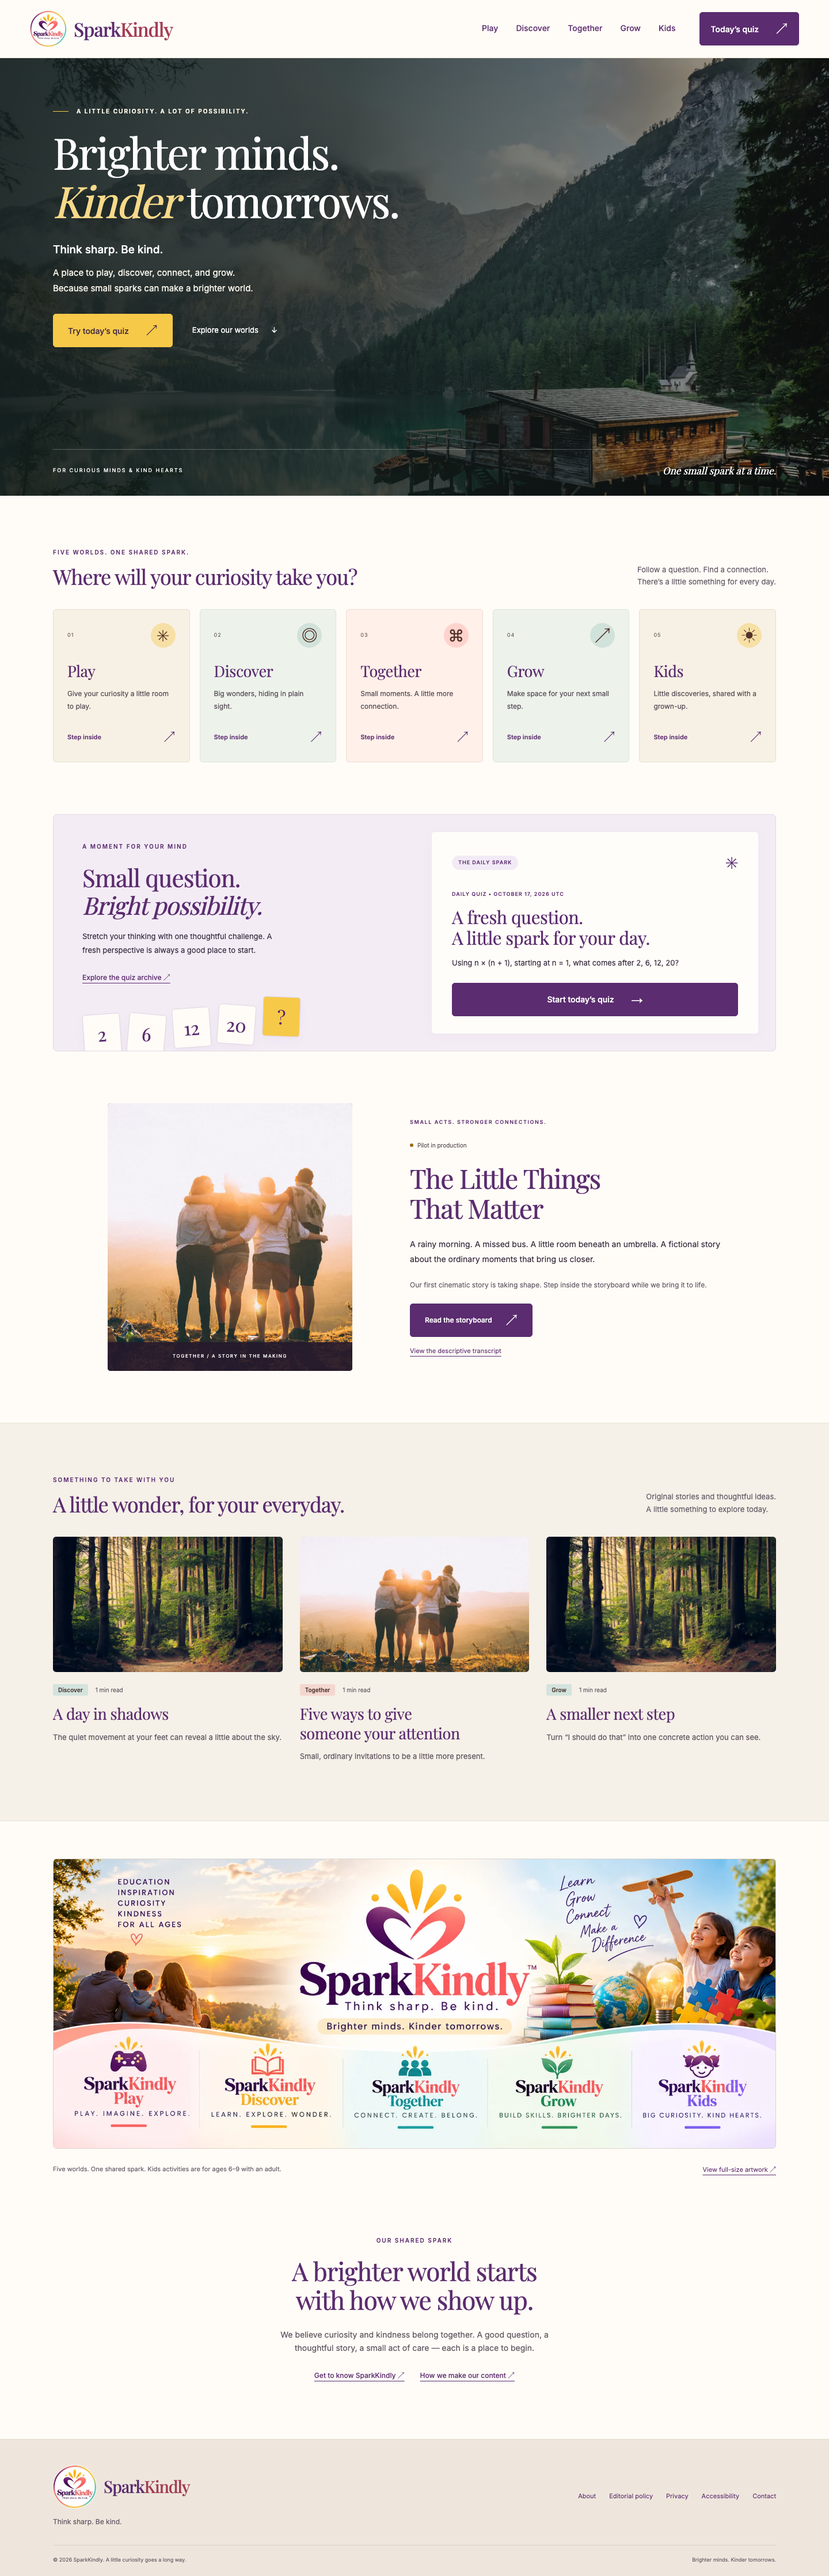
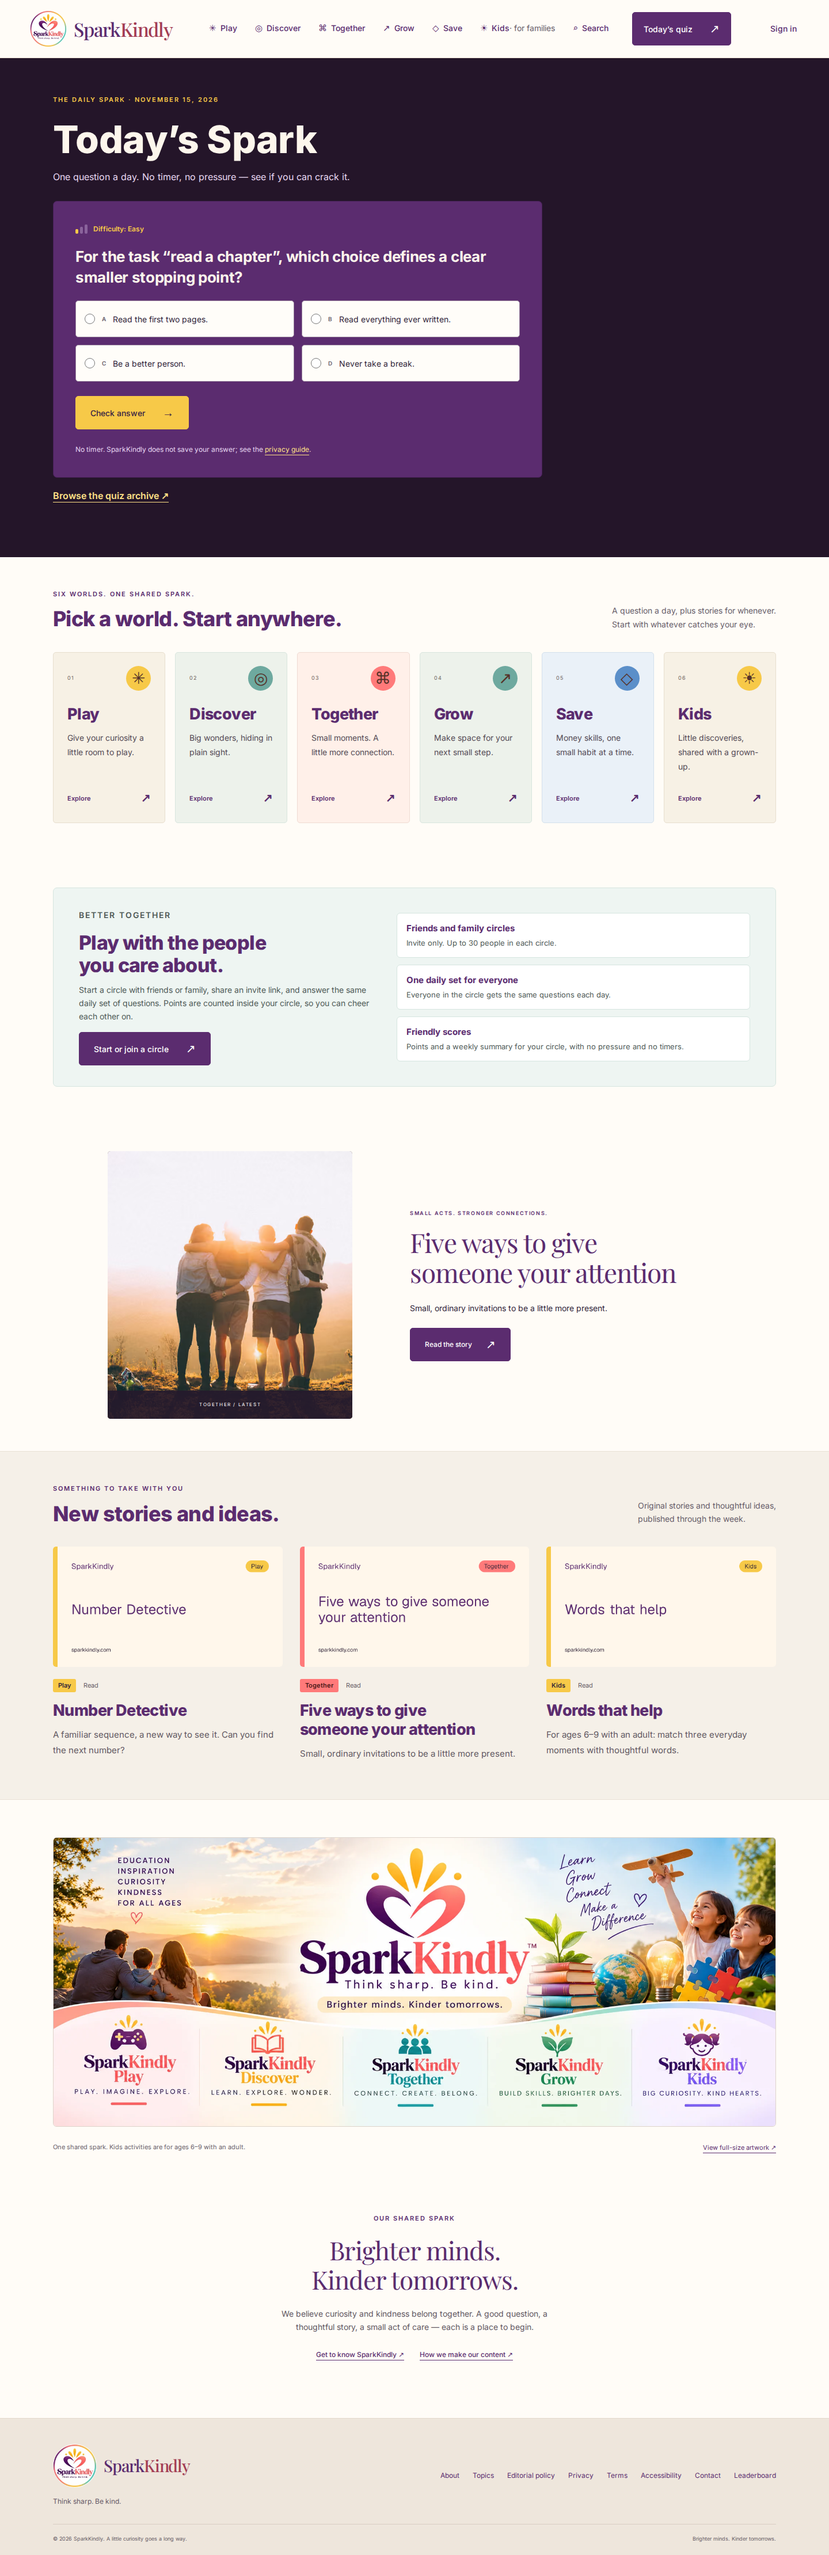
fix: Contrast and dark-scheme corrections from the accessibility runs
Running the a11y and site e2e suites against the teen-UI build found
four real defects, all fixed here: the cream legend colour was scoped
to every quiz form and washed out the report form's legend (now
panel-scoped); ink text on the full-strength sky world header sat at
4.33:1 (the sky header now uses the near-black plum, 5.12:1); in dark
scheme the panel picked up the lightened --plum accent as its
background (the panel pins its deep plum); and the card entrance
animation faded opacity, which blends text colours mid-flight (it now
moves transform only). The site journey test's homepage assertion
follows the new hero: 'Today's Spark' is the H1, the manifesto line
still asserted present in the mission section.

diff --git a/app/globals.css b/app/globals.css
@@ -127,6 +127,7 @@ h1,h2,h3{font-family:var(--sans);font-weight:800;letter-spacing:-.6px}
 .brand-intro .eyebrow{color:#302438}
 .brand-intro h1{color:#241529}
 .brand-intro>p:last-of-type{color:#302438}
+.brand-intro.intro-sky .eyebrow,.brand-intro.intro-sky>p{color:#241529}
 .world-icon{background:var(--gold)}
 .world-sage .world-icon{background:var(--sage)}
 .world-coral .world-icon{background:var(--coral)}
@@ -139,7 +140,7 @@ h1,h2,h3{font-family:var(--sans);font-weight:800;letter-spacing:-.6px}
 .quiz-panel .button{background:var(--gold);border-color:var(--gold);color:#3a2444}
 .quiz-panel .button:hover{background:#ffe087}
 .quiz-panel .text-button{color:#ffe087}
-.quiz-form legend{color:#fdf6ec}
+.quiz-panel .quiz-form legend{color:#fdf6ec}
 .option{color:var(--ink)}
 .option.selected{border-color:var(--gold);box-shadow:inset 0 0 0 2px var(--gold);background:#fdf3d3}
 .quiz-note{color:#e7d7f2}
@@ -152,7 +153,7 @@ h1,h2,h3{font-family:var(--sans);font-weight:800;letter-spacing:-.6px}
 /* Motion: a small vocabulary, all of it feedback. The reduced-motion block above kills every
    animation and transition for readers who ask for that, including these. */
 @keyframes sk-pop{0%{transform:scale(.96);opacity:.4}60%{transform:scale(1.015)}100%{transform:scale(1);opacity:1}}
-@keyframes sk-rise{from{transform:translateY(10px);opacity:0}to{transform:translateY(0);opacity:1}}
+@keyframes sk-rise{from{transform:translateY(10px)}to{transform:translateY(0);opacity:1}}
 @keyframes sk-bar{from{transform:scaleY(.3)}to{transform:scaleY(1)}}
 .quiz-result{animation:sk-pop .28s ease-out}
 .quiz-result{position:relative;overflow:visible}
@@ -231,7 +232,7 @@ h1,h2,h3{font-family:var(--sans);font-weight:800;letter-spacing:-.6px}
 
 /* Header nav glyphs sit beside the world name (aria-hidden; the link name is the world alone). */
 .nav-glyph{margin-right:7px;font-size:15px}
-.nav-families{color:var(--muted);font-weight:400}
+.nav-families{color:var(--muted);font-weight:400;white-space:nowrap}
 
 /* Homepage hero: today's playable Spark on deep plum, the manifesto moves to the mission section. */
 .spark-hero{background:#241529;color:#fdf6ec;padding:64px 0 72px}
@@ -246,3 +247,7 @@ h1,h2,h3{font-family:var(--sans);font-weight:800;letter-spacing:-.6px}
 .order-badge{position:absolute;top:10px;right:12px;min-width:30px;height:30px;border-radius:50%;background:var(--gold);color:#3a2444;font-weight:800;font-size:14px;display:grid;place-items:center;padding-inline:4px}
 .order-badge:empty{display:none}
 .quiz-panel[aria-busy="true"]{opacity:.75}
+
+/* Dark-scheme correction: the panel's plum is a surface, not an accent — the dark scheme lightens
+   --plum for text, so the panel pins the deep plum it was designed on. */
+@media (prefers-color-scheme:dark){.quiz-panel{background:#5b2c6f}}

diff --git a/tests/e2e/site.spec.ts b/tests/e2e/site.spec.ts
@@ -5,7 +5,7 @@ const release=process.env.SITE_RELEASE!=='false';
 test.beforeEach(async({page})=>{await page.clock.install({time:new Date('2026-10-17T12:00:00Z')});});
 test('home to brand to article, direct refresh and useful 404',async({page})=>{
  const errors:string[]=[];page.on('pageerror',e=>errors.push(e.message));
- await page.goto('/');await expect(page.getByRole('heading',{level:1})).toHaveText('Brighter minds.Kinder tomorrows.');
+ await page.goto('/');await expect(page.getByRole('heading',{level:1})).toHaveText('Today’s Spark');await expect(page.getByRole('heading',{name:/Brighter minds/})).toBeVisible();
  await page.getByRole('navigation',{name:'Main navigation'}).getByRole('link',{name:'Discover',exact:true}).click();
  await page.getByRole('link',{name:'A day in shadows'}).first().click();await expect(page.getByRole('heading',{level:1})).toHaveText('A day in shadows');
  await page.reload();await expect(page.getByRole('heading',{name:'Follow a changing angle'})).toBeVisible();expect(errors).toEqual([]);
